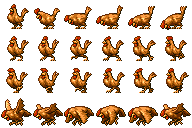
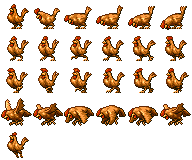
created a new jump animation that plays whenever a player jumps

diff --git a/client/js/update.js b/client/js/update.js
@@ -23,14 +23,10 @@ var update = function(){
 
   if(cursors.left.isDown && player.body.velocity.x > -playerMaxSpeed) {
     player.body.velocity.x -= playerAccleration;
-    
-    player.animations.play('walking');
     player.scale.x = 2;
 
   } else if (cursors.right.isDown && player.body.velocity.x < playerMaxSpeed) {
     player.body.velocity.x += playerAccleration;
-    
-    player.animations.play('walking');
     player.scale.x = -2;
 
   } else {
@@ -41,6 +37,16 @@ var update = function(){
       player.body.velocity.x = Math.max(player.body.velocity.x - playerDecceleration, 0);
 
     } else {
+      if (player.body.touching.down) {
+        player.frame = 0;
+      }
+    }
+  }
+
+  if (player.body.touching.down) {
+    if (player.body.velocity.x !== 0) {
+      player.animations.play('walking');
+    } else {
       player.frame = 0;
     }
   }
@@ -49,12 +55,18 @@ var update = function(){
   // player.animations.currentAnim.speed = Math.abs(player.body.velocity.x / 8) + 5;
 
   // Takes almost no processing, but looks worse
-  player.animations.currentAnim.delay = Math.min(1 / (Math.abs(player.body.velocity.x) * 0.00009), 100);
+
+  if (player.body.touching.down) {
+    player.animations.currentAnim.delay = Math.min(1 / (Math.abs(player.body.velocity.x) * 0.00009), 100);
+  }
 
   // Jump if on ground and move upward until jump runs out or lets go of space
   var jumpSpeed = -850;
   if(jumpButton.isDown && player.body.touching.down) {
     player.body.velocity.y = jumpSpeed;
+    player.animations.stop();
+    player.frame = 24; 
+
   } else if (!jumpButton.isDown && !player.body.touching.down) {
     if (player.body.velocity.y < 0 && player.body.velocity.y > jumpSpeed + 100) {
       player.body.velocity.y = 0;
